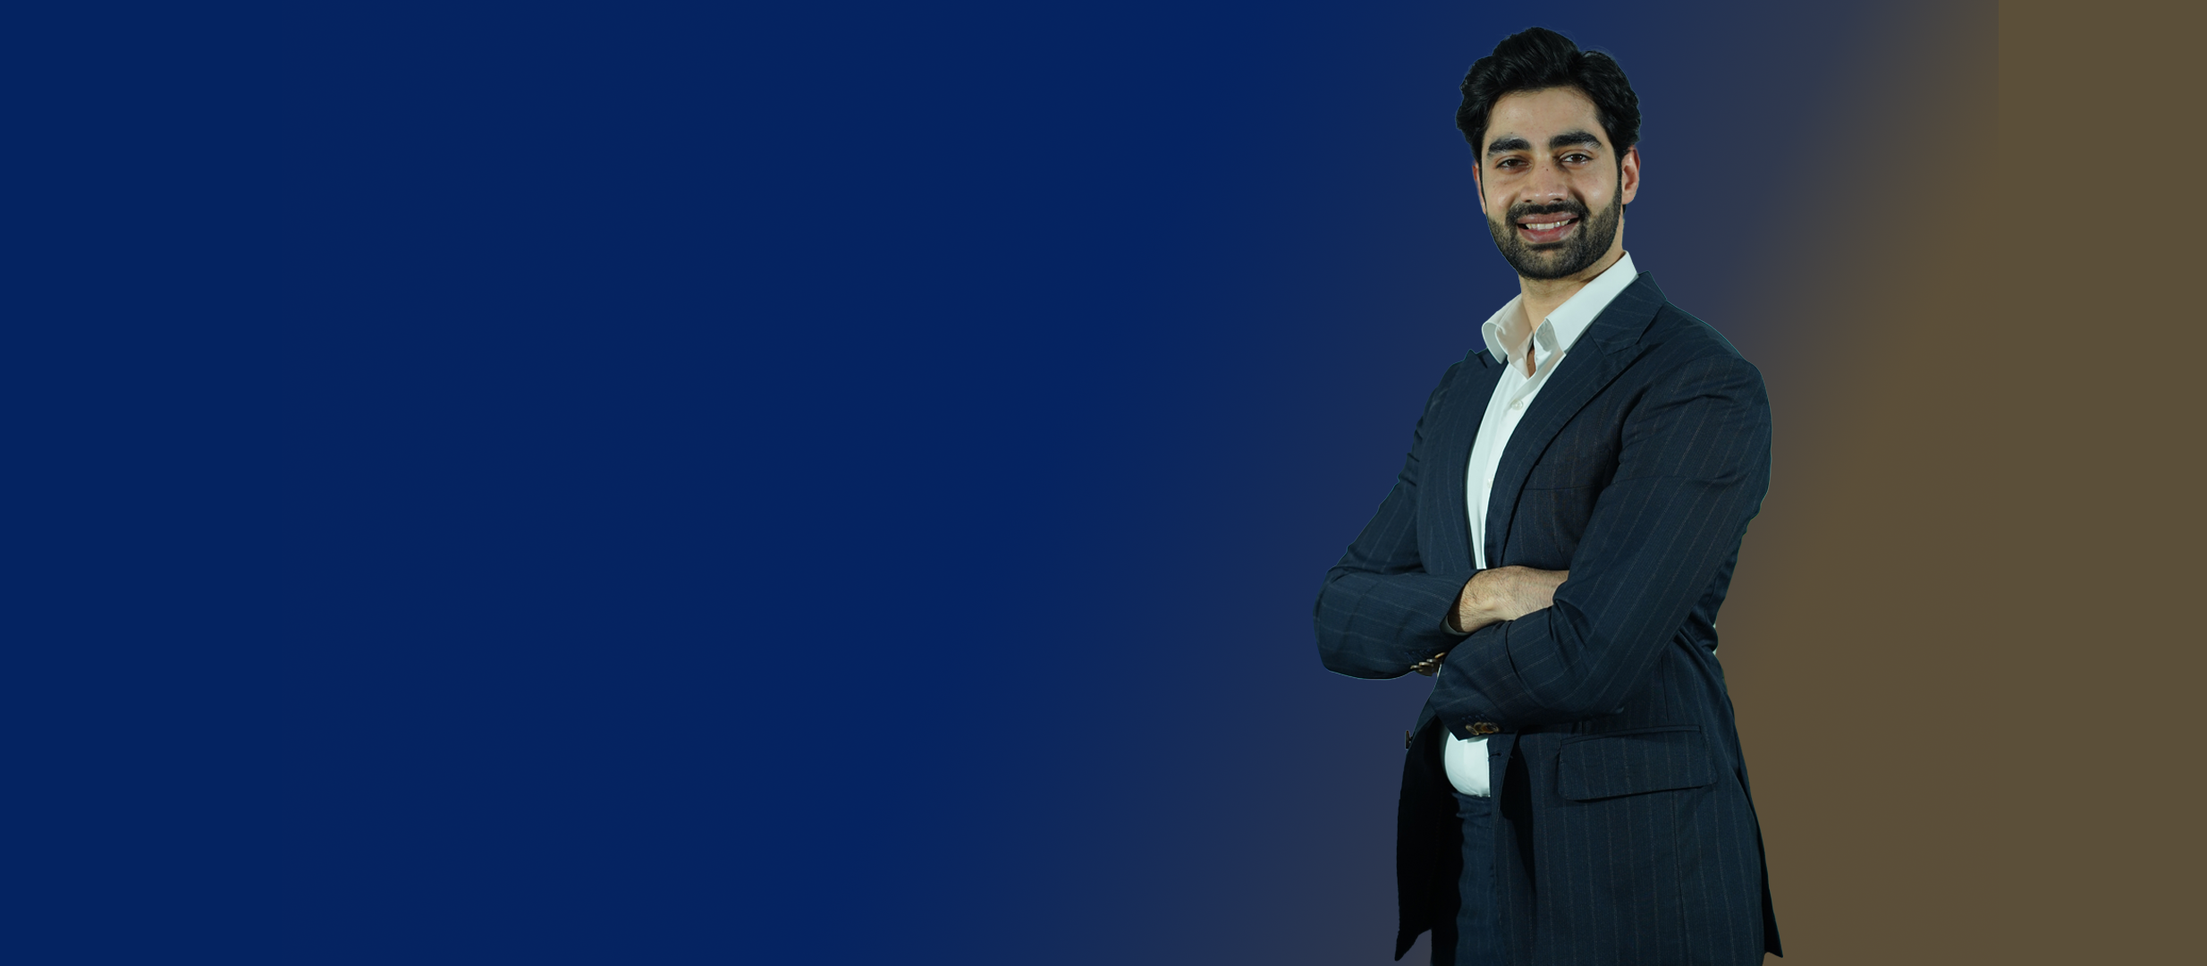
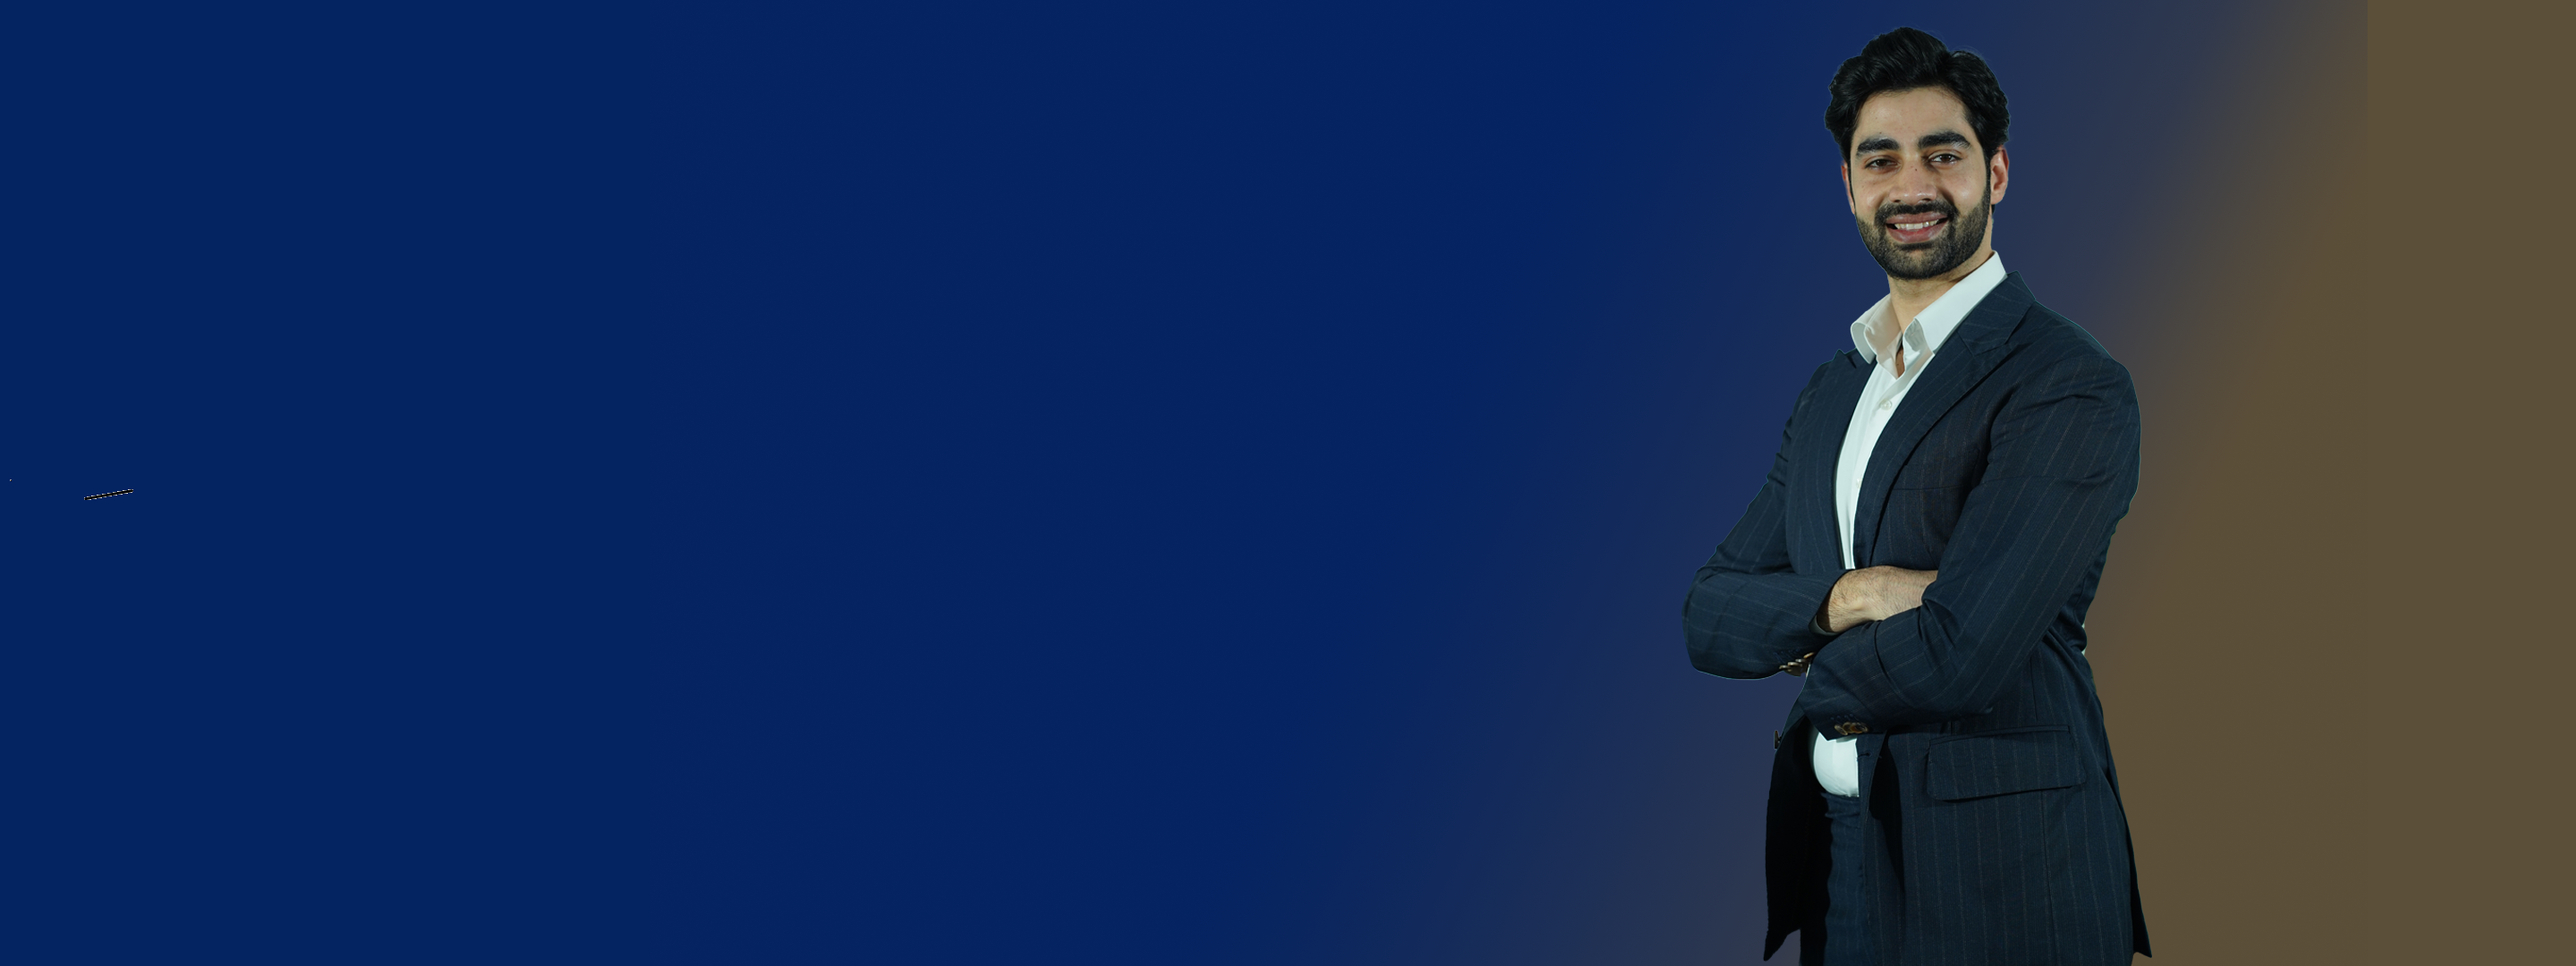
updates

Changed region(s): [[0.5928, 0.0306, 0.8424, 1.0]]

diff --git a/src/pages/People/Peoples.jsx b/src/pages/People/Peoples.jsx
@@ -10,8 +10,10 @@ import OurStrengthImg from "../../assets/People/OurStrength.png";
 import CommitmentImg from "../../assets/People/Compliance.jpg";
 import { FaArrowRight } from "react-icons/fa";
 import { Swiper, SwiperSlide } from "swiper/react";
-import { Pagination } from "swiper/modules";
+import { Navigation } from "swiper/modules";
 import "swiper/css";
+import "swiper/css/navigation";
+import { Pagination } from "swiper/modules";
 import "swiper/css/pagination";
 
 import img1 from "../../assets/People/LifePanorama/1.jpg";
@@ -155,13 +157,9 @@ function Peoples() {
                                     viewport={{ once: false, amount: 0.3 }}
                                 >
                                     <div className="2xl:text-3xl xl:text-2xl md:text-xl sm:text-[12px] text-[8px] text-white text-justify leading-loose 2xl:w-[80%] xl:w-[90%] lg:w-[95%] w-full">
-                                        <span className="2xl:text-4xl xl:text-3xl lg:text-2xl md:text-xl text-md font-semibold">
-                                            
-                                        </span>
+                                        <span className="2xl:text-4xl xl:text-3xl lg:text-2xl md:text-xl text-md font-semibold"></span>
                                         {director.message}
-                                        <span className="2xl:text-4xl xl:text-3xl lg:text-2xl md:text-xl text-md font-semibold">
-                                            
-                                        </span>
+                                        <span className="2xl:text-4xl xl:text-3xl lg:text-2xl md:text-xl text-md font-semibold"></span>
                                     </div>
                                     <h1 className="text-white w-full text-end 2xl:text-5xl xl:text-4xl lg:text-3xl md:text-2xl text-lg font-semibold 2xl:mt-20 xl:mt-10 md:mt-5 mt-2">
                                         {director.name}
@@ -267,18 +265,14 @@ function Peoples() {
                         LIFE AT PANORAMA
                     </h2>
                 </div>
-                <div className="w-[80%] mx-auto">
+                <div className="w-[80%] mx-auto relative">
                     <Swiper
-                        modules={[Pagination]}
+                        modules={[Navigation]}
                         slidesPerView={1}
                         spaceBetween={20}
-                        pagination={{
-                            clickable: true,
-                            el: ".custom-pagination",
-                            bulletClass:
-                                "swiper-pagination-bullet !bg-gray-400",
-                            bulletActiveClass:
-                                "swiper-pagination-bullet-active !bg-blue-500",
+                        navigation={{
+                            nextEl: ".swiper-button-next-custom",
+                            prevEl: ".swiper-button-prev-custom",
                         }}
                         breakpoints={{
                             768: { slidesPerView: 2 },
@@ -299,8 +293,13 @@ function Peoples() {
                         ))}
                     </Swiper>
 
-                    {/* Custom pagination container BELOW images */}
-                    <div className="custom-pagination flex justify-center mt-6 space-x-2"></div>
+                    {/* Custom navigation buttons */}
+                    <button className="swiper-button-prev-custom absolute left-[-45px] top-1/2 -translate-y-1/2 z-10 bg-blue-950 hover:bg-blue-700 text-white w-10 h-10 rounded-full shadow-md">
+                        ❮
+                    </button>
+                    <button className="swiper-button-next-custom absolute right-[-45px] top-1/2 -translate-y-1/2 z-10 bg-blue-950 hover:bg-blue-700 text-white w-10 h-10 rounded-full shadow-md">
+                        ❯
+                    </button>
                 </div>
             </section>
 

diff --git a/src/pages/ourStory/VisionMission.jsx b/src/pages/ourStory/VisionMission.jsx
@@ -472,7 +472,7 @@ export default function VisionMission() {
                                 className="w-full bg-contain bg-center"
                                 style={{
                                     backgroundImage: `url(${director.bg})`,
-                                    aspectRatio: "16/7", // image ratio wise height ...................
+                                    aspectRatio: "16/6", // image ratio wise height ...................
                                 }}
                             >
                                 <div className="bg-transparent w-full h-full flex items-center">
@@ -593,7 +593,7 @@ export default function VisionMission() {
                                 className="w-full bg-contain bg-center"
                                 style={{
                                     backgroundImage: `url(${director.bg})`,
-                                    aspectRatio: "16/7", // image ratio wise height ...................
+                                    aspectRatio: "16/6", // image ratio wise height ...................
                                 }}
                             >
                                 <div className="bg-transparent w-full h-full flex items-center">

diff --git a/src/pages/ourStory/OurStory.jsx b/src/pages/ourStory/OurStory.jsx
@@ -11,7 +11,7 @@ import img2 from "../../assets/OurStory/03.webp";
 import img3 from "../../assets/OurStory/04.webp";
 import img4 from "../../assets/OurStory/05.webp";
 
-import LegacyImage from "../../assets/Legacy/Legacy.png";
+import LegacyImage from "../../assets/Legacy/final.png";
 
 import FounderImage from "../../assets/Founders/founderImage.png";
 
